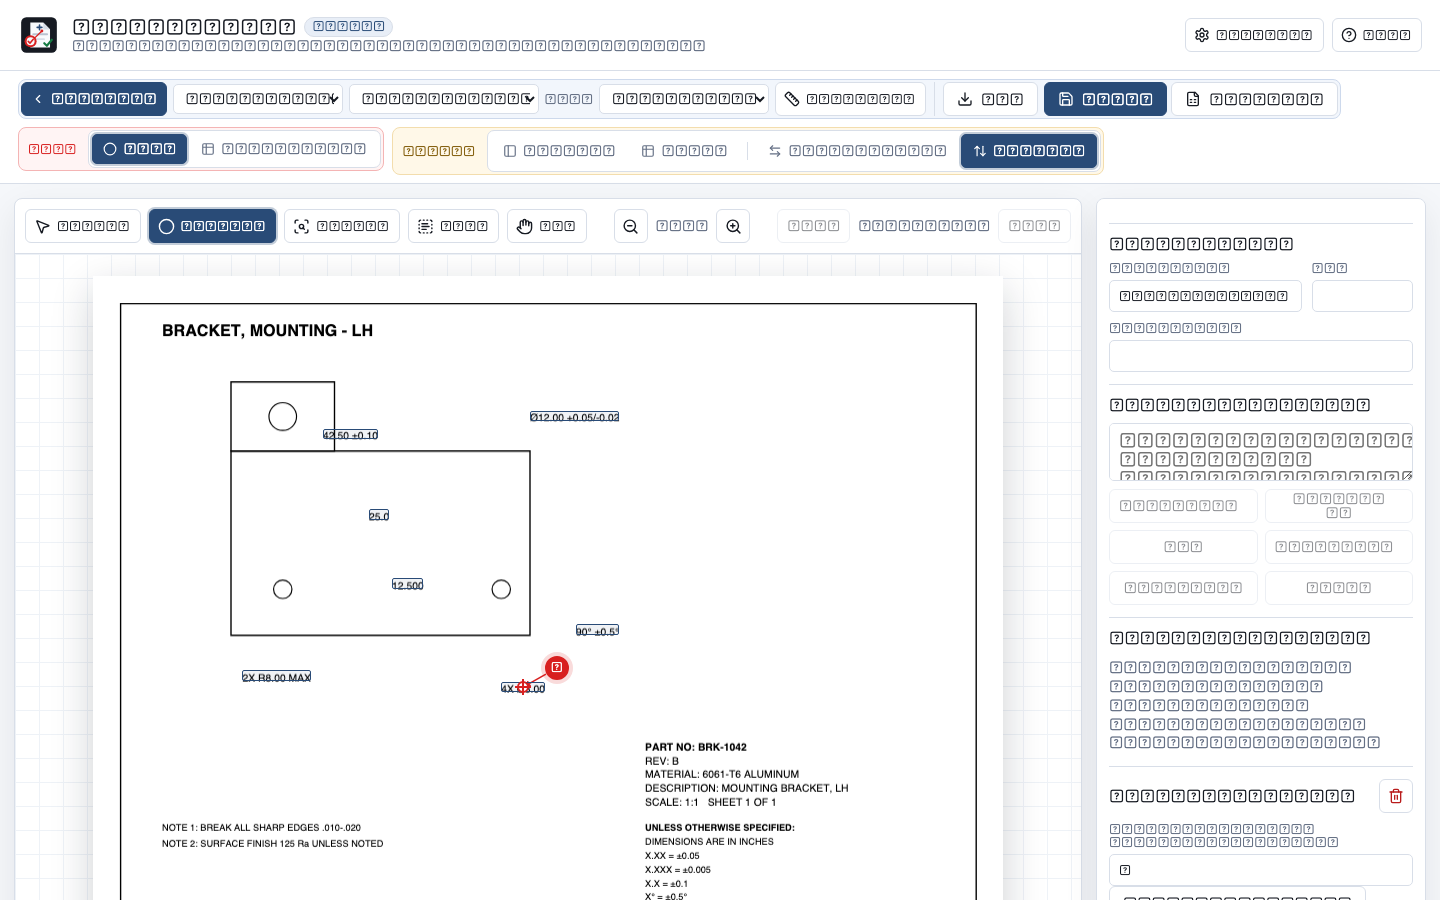
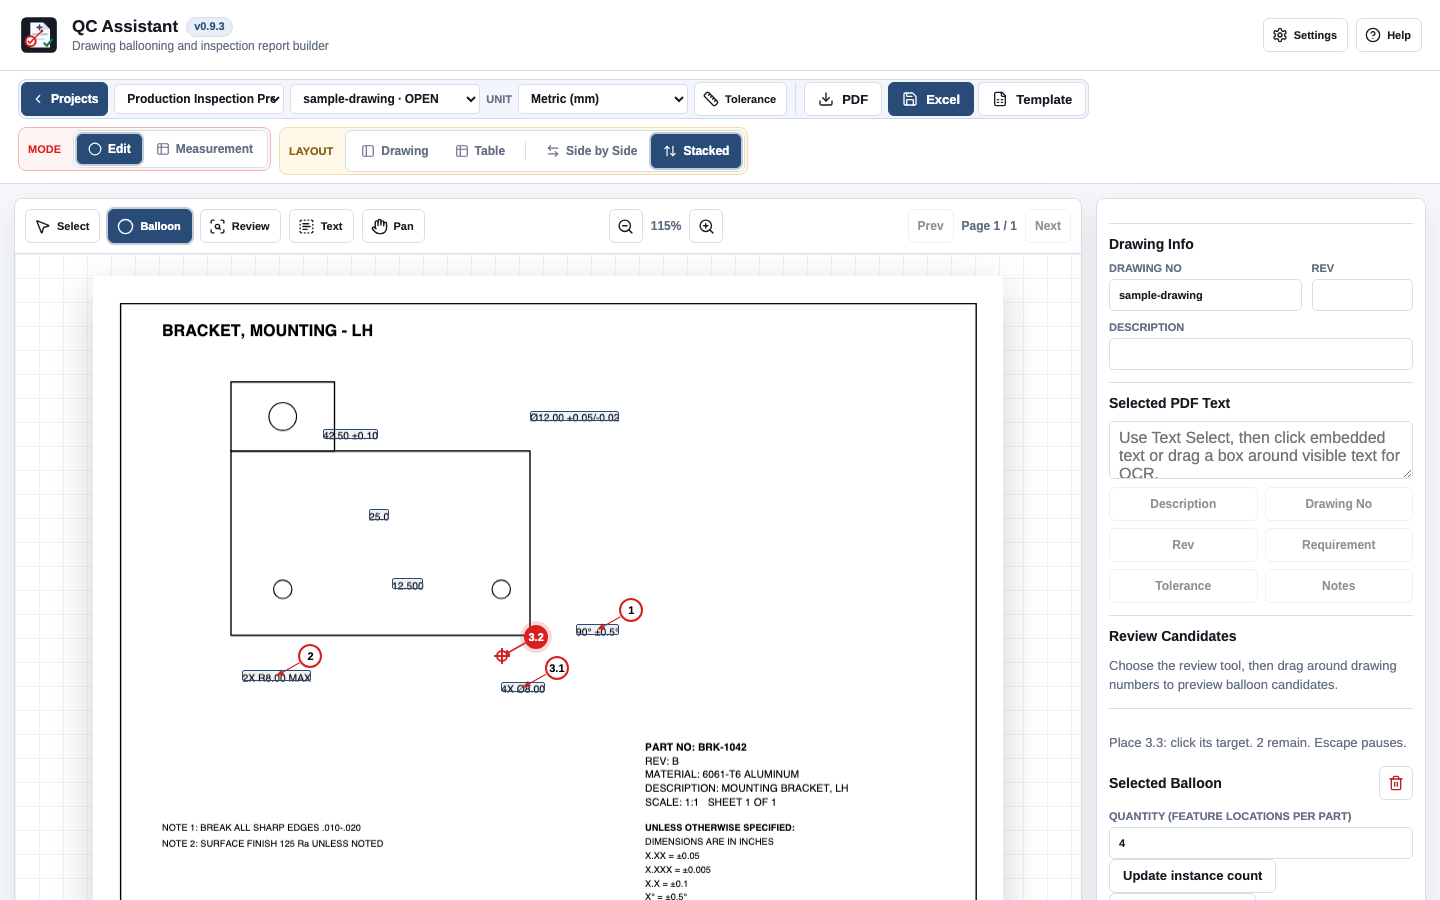
docs: regenerate clean screenshots with embedded typography and align repeated dimension references

diff --git a/src/components/panels.jsx b/src/components/panels.jsx
@@ -54,8 +54,8 @@ export function FullUserGuide() {
         <p>Select <strong>Balloon</strong> (<kbd>B</kbd>) and click a dimension callout. QC Assistant snaps to the nearest recognized dimension text and pre-fills the nominal/tolerance when it can parse them — e.g. <code>42.50 ±0.10</code>, <code>Ø12.00 +0.05/-0.02</code>, <code>90° ±0.5°</code>. The balloon is placed with a solid vector arrowhead pointing directly at the dimension feature target; drag the circle or leader target to adjust placement afterward.</p>
         <GuideFigure src="/guide/08-balloons-placed.png" alt="Three balloons manually placed on the drawing" />
         <p>Single-click selects a balloon; double-click or <kbd>E</kbd> opens reassign/delete. <strong>Add Row</strong> creates a characteristic with no balloon placed yet. <strong>Demo Rows</strong> seeds 7 examples. <strong>Clear Drawing Data</strong> / <strong>Clear All Balloons</strong> wipe with confirmation.</p>
-        <p><strong>Repeated Dimensions &amp; Occurrences:</strong> When a requirement specifies multiple instances (e.g. <code>3X Ø10 ±0.1</code>), QC Assistant detects the quantity. Click <strong>Create 3 instances</strong> to expand into linked sub-balloons <code>5.1</code>, <code>5.2</code>, and <code>5.3</code>. Guided placement directs you to click each feature target sequentially (press <kbd>Esc</kbd> to pause placement). All instances share nominal and tolerance definitions, but maintain independent sample measurements, notes, and drawing balloon coordinates.</p>
-        <GuideFigure src="/guide/18-repeated-dimensions.png" alt="Repeated dimension expanded into sub-balloons with guided sequential placement" caption="Repeated dimensions: expanding 4X Ø8.00 creates linked sub-balloons 1.1–1.4 with guided placement." />
+        <p><strong>Repeated Dimensions &amp; Occurrences:</strong> When a requirement specifies multiple instances (e.g. <code>4X Ø8.00</code>), QC Assistant detects the quantity. Click <strong>Create instances</strong> to expand into linked sub-balloons <code>3.1</code>, <code>3.2</code>, <code>3.3</code>, and <code>3.4</code>. Guided placement directs you to click each feature target sequentially (press <kbd>Esc</kbd> to pause placement). All instances share nominal and tolerance definitions, but maintain independent sample measurements, notes, and drawing balloon coordinates.</p>
+        <GuideFigure src="/guide/18-repeated-dimensions.png" alt="Repeated dimension expanded into sub-balloons with guided sequential placement" caption="Repeated dimensions: expanding 4X Ø8.00 creates linked sub-balloons 3.1–3.4 with guided placement." />
       </div>
 
       <div className="guide-topic">

diff --git a/docs/USER_GUIDE.md b/docs/USER_GUIDE.md
@@ -119,15 +119,15 @@ Ballooning is how you turn a dimension on the drawing into a tracked inspection 
 
 ### Repeated Dimensions & Sub-Balloons
 
-When a drawing specifies repeated requirements (e.g. `3X Ø10 ±0.1`):
+When a drawing specifies repeated requirements (e.g. `4X Ø8.00`):
 
-1. QC Assistant detects the quantity prefix and sets **Quantity** to `3` in the inspector.
-2. Click **Create 3 instances** to expand the requirement into linked occurrences `5.1`, `5.2`, and `5.3`.
-3. The app enters guided placement: click the physical location for `5.2`, then `5.3`. Pressing `Escape` pauses placement; unplaced instances show a **Resume placement** action.
+1. QC Assistant detects the quantity prefix and sets **Quantity** to `4` in the inspector for Balloon `3`.
+2. Click **Create instances** to expand the requirement into linked occurrences `3.1`, `3.2`, `3.3`, and `3.4`.
+3. The app enters guided placement: click the physical location for `3.2`, then `3.3` and `3.4`. Pressing `Escape` pauses placement; unplaced instances show a **Resume placement** action.
 4. All instances share the requirement definition (nominal, tolerance, unit, method), but keep independent sample measurements, notes, and balloon coordinates.
-5. In Excel exports, each occurrence occupies its own numbered row (`5.1`, `5.2`, `5.3`).
+5. In Excel exports, each occurrence occupies its own numbered row (`3.1`, `3.2`, `3.3`, `3.4`).
 
-![Repeated dimensions: expanding 4X Ø8.00 creates linked sub-balloons 1.1–1.4 with guided placement](./assets/screenshots/18-repeated-dimensions.png)
+![Repeated dimensions: expanding 4X Ø8.00 creates linked sub-balloons 3.1–3.4 with guided placement](./assets/screenshots/18-repeated-dimensions.png)
 
 - **Single-click** a balloon to select it (its details appear in "Selected Balloon" on the right).
 - **Double-click**, or press `E` while selected, opens a small popover to **reassign its number** or **delete** it.
